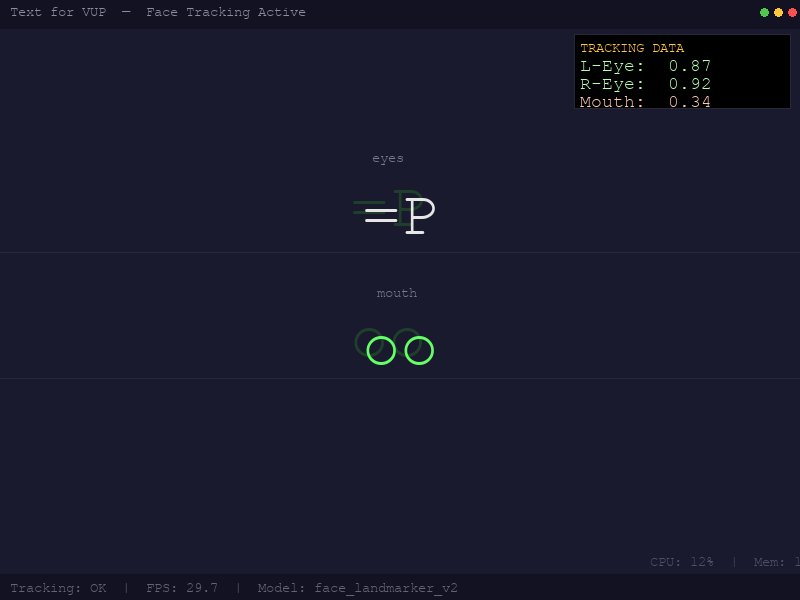
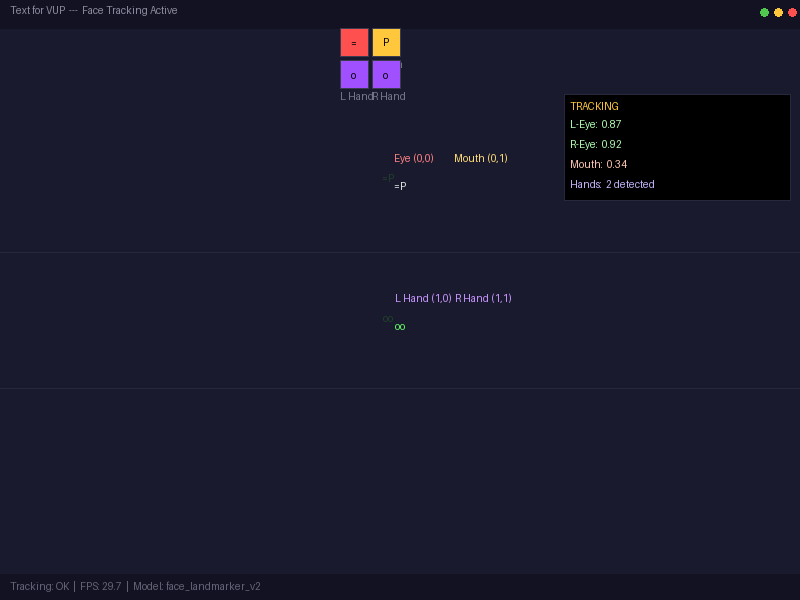
fix: correct role labels in demo screenshot

diff --git a/tools/generate_screenshot.py b/tools/generate_screenshot.py
@@ -2,96 +2,91 @@ from PIL import Image, ImageDraw, ImageFont
 import os
 
 W, H = 800, 600
-BG = (26, 26, 46)
-GREEN = (100, 255, 100)
-WHITE = (230, 230, 230)
-DIM_GREEN = (40, 120, 40)
-ACCENT = (255, 200, 60)
+BG = (26, 26, 46); GREEN = (100, 255, 100); WHITE = (230, 230, 230); ACCENT = (255, 200, 60)
 
-script_dir = os.path.dirname(os.path.abspath(__file__))
-root_dir = os.path.dirname(script_dir)
-out_dir = os.path.join(root_dir, "screenshots")
+out_dir = os.path.join(os.path.dirname(os.path.abspath(__file__)), '..', 'screenshots')
 os.makedirs(out_dir, exist_ok=True)
 
-img = Image.new("RGB", (W, H), BG)
+img = Image.new('RGB', (W, H), BG)
 draw = ImageDraw.Draw(img)
 
 try:
-    font_large = ImageFont.truetype("Consolas", 64)
-    font_small = ImageFont.truetype("Consolas", 18)
-    font_tiny = ImageFont.truetype("Consolas", 14)
-except (OSError, IOError):
-    try:
-        font_large = ImageFont.truetype("cour.ttf", 64)
-        font_small = ImageFont.truetype("cour.ttf", 18)
-        font_tiny = ImageFont.truetype("cour.ttf", 14)
-    except (OSError, IOError):
-        font_large = ImageFont.load_default()
-        font_small = font_large
-        font_tiny = font_large
+    font_large = ImageFont.truetype('Consolas', 64)
+    font_small = ImageFont.truetype('Consolas', 18)
+    font_tiny = ImageFont.truetype('Consolas', 14)
+except:
+    font_large = font_small = font_tiny = ImageFont.load_default()
 
-def center_xy(text, font, y):
-    bbox = draw.textbbox((0, 0), text, font=font)
-    tw = bbox[2] - bbox[0]
-    return (W - tw) // 2, y
+def cxy(text, font, y):
+    b = draw.textbbox((0,0), text, font=font)
+    tw = b[2]-b[0]
+    return (W-tw)//2, y
 
-def draw_char(char, x, y, font, color, alpha=255, offset=(0, 0)):
-    if alpha < 255:
-        layer = Image.new("RGBA", (W, H), (0, 0, 0, 0))
-        ldraw = ImageDraw.Draw(layer)
-        ldraw.text((x + offset[0], y + offset[1]), char, font=font, fill=(*color, alpha))
-        img.paste(layer, (0, 0), layer)
-    else:
-        draw.text((x + offset[0], y + offset[1]), char, font=font, fill=color)
+# Title bar
+draw.rectangle([(0,0),(W,28)], fill=(18,18,34))
+draw.text((10,4), 'Text for VUP  ---  Face Tracking Active', font=font_tiny, fill=(140,140,160))
+for bx,cl in [(W-8,(255,80,80)),(W-22,(255,200,60)),(W-36,(80,200,80))]:
+    draw.ellipse([bx-4, 8, bx+4, 16], fill=cl)
 
-# Title bar area
-draw.rectangle([(0, 0), (W, 28)], fill=(18, 18, 34))
-draw.text((10, 4), "Text for VUP  —  Face Tracking Active", font=font_tiny, fill=(140, 140, 160))
+# Status bar
+draw.rectangle([(0,H-26),(W,H)], fill=(18,18,34))
+draw.text((10,H-20), 'Tracking: OK  |  FPS: 29.7  |  Model: face_landmarker_v2', font=font_tiny, fill=(100,100,120))
 
-# Close/minimize buttons
-for bx, col in [(W - 8, (255, 80, 80)), (W - 22, (255, 200, 60)), (W - 36, (80, 200, 80))]:
-    draw.ellipse([bx - 4, 8, bx + 4, 16], fill=col)
+# Mini grid legend
+gs, gx0, gy0 = 28, 340, 28
+cell_data = {
+    (0,0): ((255,80,80),'Eye'), (0,1): ((255,200,60),'Mouth'),
+    (1,0): ((160,80,255),'L Hand'), (1,1): ((160,80,255),'R Hand')
+}
+chars = [['=','P'],['o','o']]
+for r in range(2):
+    for c in range(2):
+        x = gx0 + c*(gs+4); y = gy0 + r*(gs+4)
+        col, lbl = cell_data[(r,c)]
+        draw.rectangle([x,y,x+gs,y+gs], fill=col, outline=(60,60,80))
+        b = draw.textbbox((0,0), chars[r][c], font=font_tiny)
+        tw = b[2]-b[0]; th = b[3]-b[1]
+        draw.text((x+(gs-tw)//2, y+(gs-th)//2-2), chars[r][c], font=font_tiny, fill=(0,0,0))
+        draw.text((x, y+gs+2), lbl, font=font_tiny, fill=(120,120,140))
 
-# Status bar at bottom
-draw.rectangle([(0, H - 26), (W, H)], fill=(18, 18, 34))
-draw.text((10, H - 20), "Tracking: OK  |  FPS: 29.7  |  Model: face_landmarker_v2", font=font_tiny, fill=(100, 100, 120))
+# Main character
+top_y, bot_y = 180, 320
+cx, cy = cxy('=P', font_large, top_y)
+cx2, cy2 = cxy('oo', font_large, bot_y)
 
-# Top row: "=P"  (eyes + mouth shape)
-top_y = 180
-bot_y = 310
+# Ghost for tracking feel
+def ghost(txt, x, y):
+    ly = Image.new('RGBA', (W,H), (0,0,0,0))
+    ld = ImageDraw.Draw(ly)
+    ld.text((x-12, y-8), txt, font=font_large, fill=(40,120,40,100))
+    img.paste(ly, (0,0), ly)
+ghost('=P', cx, cy)
+ghost('oo', cx2, cy2)
+draw.text((cx,cy), '=P', font=font_large, fill=WHITE)
+draw.text((cx2,cy2), 'oo', font=font_large, fill=GREEN)
 
-# Draw ghost/tracking-offset version (dim)
-cx, cy = center_xy("=P", font_large, top_y)
-draw_char("=P", cx, cy, font_large, DIM_GREEN, alpha=100, offset=(-12, -8))
+# Role labels on the character
+for t,x,y,cl in [
+    ('Eye (0,0)', cx, top_y-28, (255,130,130)),
+    ('Mouth (0,1)', cx+60, top_y-28, (255,220,120)),
+    ('L Hand (1,0)', cx2, bot_y-28, (200,150,255)),
+    ('R Hand (1,1)', cx2+60, bot_y-28, (200,150,255)),
+]:
+    draw.text((x,y), t, font=font_tiny, fill=cl)
 
-cx2, cy2 = center_xy("oo", font_large, bot_y)
-draw_char("oo", cx2, cy2, font_large, DIM_GREEN, alpha=100, offset=(-12, -8))
+# Tracking panel
+tx, ty = W-230, 100
+draw.rectangle([(tx-6,ty-6),(W-10,ty+100)], fill=(0,0,0,160), outline=(40,40,60))
+draw.text((tx,ty), 'TRACKING', font=font_tiny, fill=ACCENT)
+draw.text((tx,ty+18), 'L-Eye:  0.87', font=font_small, fill=(180,255,180))
+draw.text((tx,ty+38), 'R-Eye:  0.92', font=font_small, fill=(180,255,180))
+draw.text((tx,ty+58), 'Mouth:  0.34', font=font_small, fill=(255,200,180))
+draw.text((tx,ty+78), 'Hands:  2 detected', font=font_small, fill=(200,180,255))
 
-# Draw main character
-draw_char("=P", cx, cy, font_large, WHITE)
-draw_char("oo", cx2, cy2, font_large, GREEN)
+# Guide lines
+for gy in [top_y+72, bot_y+68]:
+    draw.line([(0,gy),(W,gy)], fill=(40,40,60), width=1)
 
-# Small labels above character parts
-draw.text((cx + 10, top_y - 30), "eyes", font=font_tiny, fill=(120, 120, 140))
-draw.text((cx2 + 15, bot_y - 25), "mouth", font=font_tiny, fill=(120, 120, 140))
-
-# Tracking data overlay (top-right corner)
-track_x = W - 220
-track_y = 40
-draw.rectangle([(track_x - 6, track_y - 6), (W - 10, track_y + 68)], fill=(0, 0, 0, 160), outline=(40, 40, 60))
-draw.text((track_x, track_y), "TRACKING DATA", font=font_tiny, fill=ACCENT)
-draw.text((track_x, track_y + 16), f"L-Eye:  0.87", font=font_small, fill=(180, 255, 180))
-draw.text((track_x, track_y + 34), f"R-Eye:  0.92", font=font_small, fill=(180, 255, 180))
-draw.text((track_x, track_y + 52), f"Mouth:  0.34", font=font_small, fill=(255, 200, 180))
-
-# FPS / info overlay (bottom-right)
-draw.text((W - 150, H - 46), "CPU: 12%  |  Mem: 184MB", font=font_tiny, fill=(80, 80, 100))
-
-# Guidance lines
-for gy in [top_y + 72, bot_y + 68]:
-    draw.line([(0, gy), (W, gy)], fill=(40, 40, 60), width=1)
-
-out_path = os.path.join(out_dir, "demo.png")
-img.save(out_path)
-print(f"Screenshot saved to {out_path}")
-print(f"Size: {img.size[0]}x{img.size[1]}")
+out = os.path.join(out_dir, 'demo.png')
+img.save(out)
+print(f'Saved to {out}')